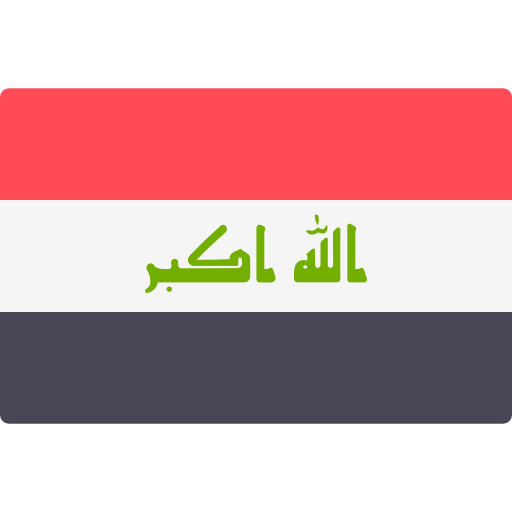
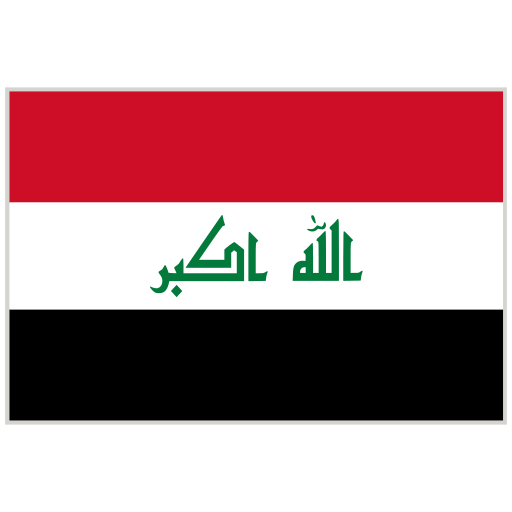
fix flag

diff --git a/components/Home/Present.tsx b/components/Home/Present.tsx
@@ -29,6 +29,7 @@ import UaE from "../../assets/image/home/flag/united-arab-emirates.png";
 import Nigeria from "../../assets/image/home/flag/nigeria.png";
 import Netherland from "../../assets/image/home/flag/netherlands.png";
 import Iran from "../../assets/image/home/flag/Iran.png";
+import Iraq from "../../assets/image/home/flag/iraq.png";
 import Lybia from "../../assets/image/home/flag/libya-flag-icon.png";
 import Mali from "../../assets/image/home/flag/Mali.png";
 
@@ -63,7 +64,7 @@ const Present = () => {
     { image: Brazil, title: tFlag("Brazil") },
     { image: Japan, title: tFlag("Japan") },
     { image: RepublicofChina, title: tFlag("Taiwan") },
-    // { image: Iraq, title: tFlag("Iraq") },
+    { image: Iraq, title: tFlag("Iraq") },
     { image: Iran, title: tFlag("Iran") },
     { image: Australia, title: tFlag("Australia") },
     { image: SouthKorea, title: tFlag("South Korea") },
@@ -111,7 +112,7 @@ const Present = () => {
                   <Image
                     src={item.image}
                     alt={item.title}
-                    className="h-[120px] md:h-[200px] w-[300px] object-contain hover:shadow-2xl"
+                    className="h-[120px] md:h-[200px] w-[300px] object-cover hover:shadow-2xl"
                   />
                 </div>
                 <h3 className="text-[12px] font-mainB text-center md:text-[18px] lg:text-[20px] xl:text-[22px] py-3">
